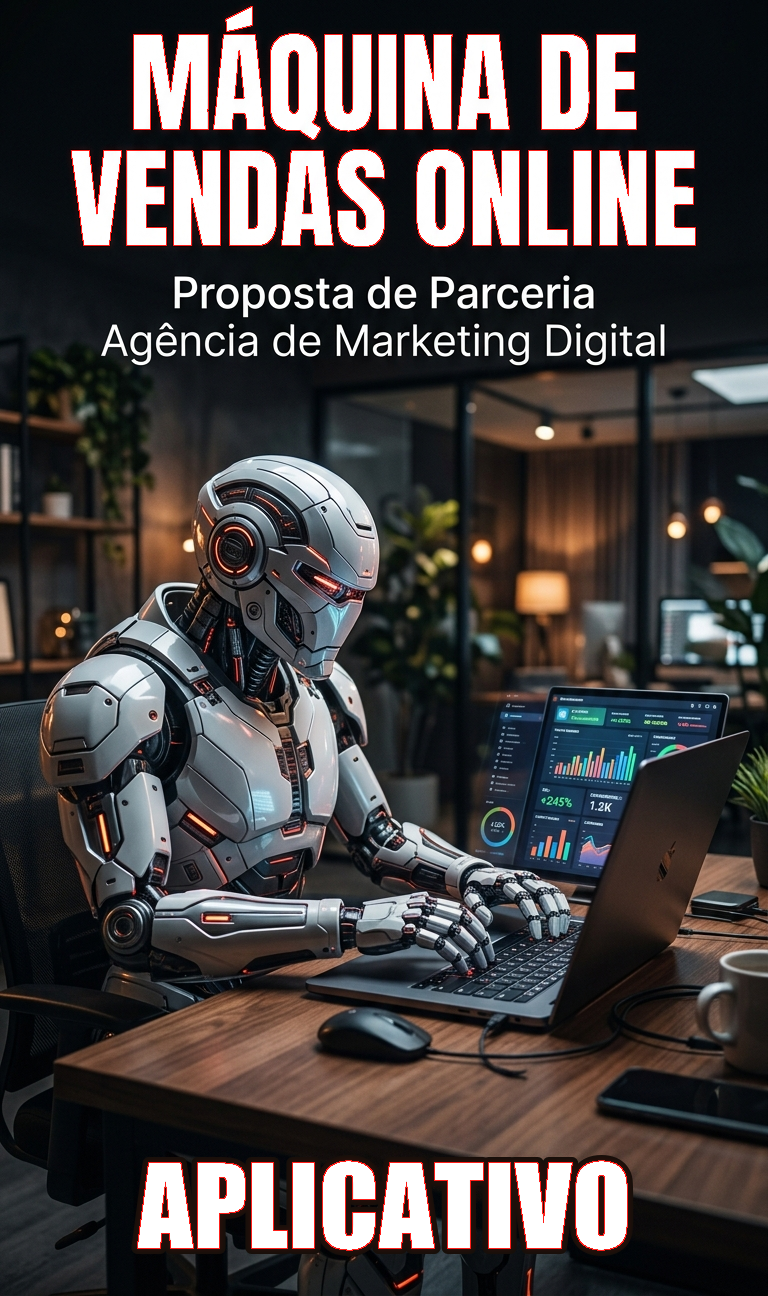
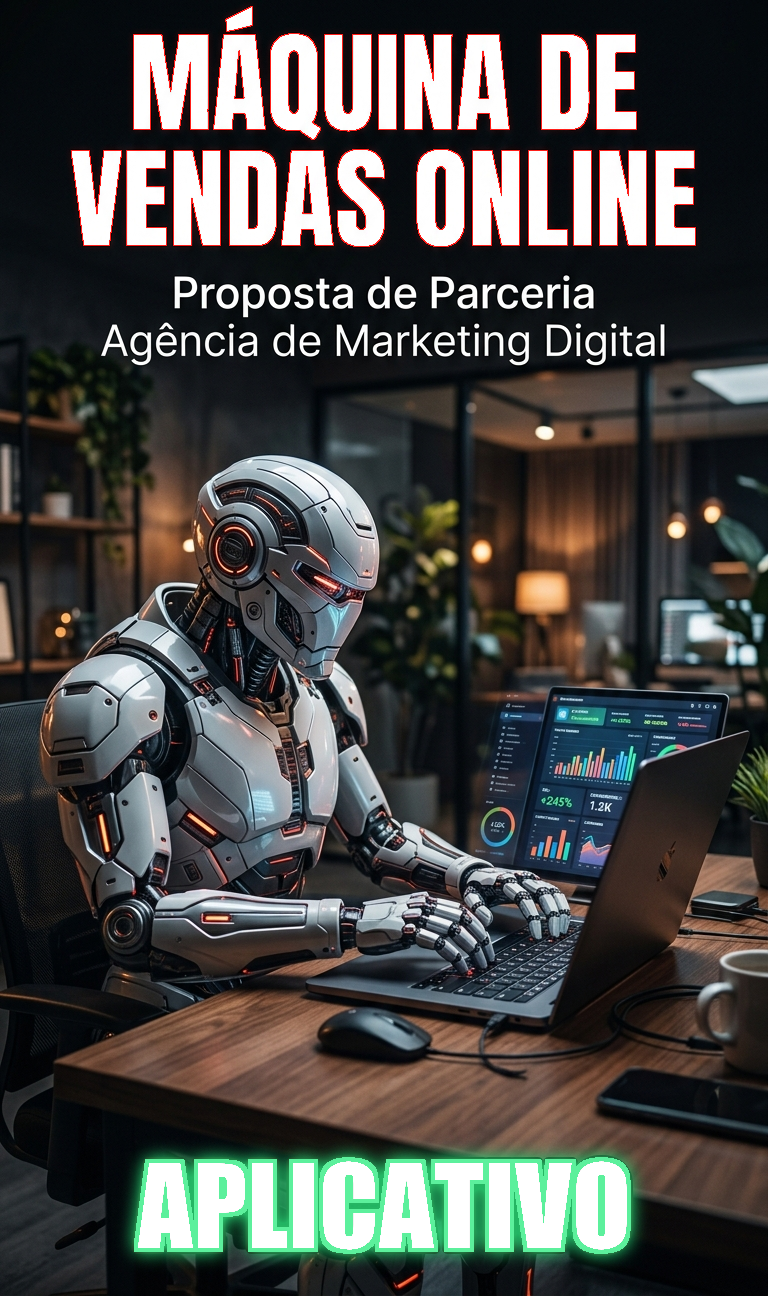
Topo: contorno verde, APLICATIVO verde acendendo e player do vídeo (som + parar)

Changed region(s): [[0.1562, 0.8642, 0.8438, 0.9877]]

diff --git a/app/hostnet-server/public/index.html b/app/hostnet-server/public/index.html
@@ -32,8 +32,8 @@
   }
   * { box-sizing: border-box; }
   @keyframes appFrameGlow {
-    0%, 100% { border-color: #ff2d1f; box-shadow: inset 0 0 10px rgba(255, 45, 31, 0.2); }
-    50% { border-color: #ff7a63; box-shadow: inset 0 0 20px rgba(255, 45, 31, 0.4); }
+    0%, 100% { border-color: #27d373; box-shadow: inset 0 0 10px rgba(39, 211, 115, 0.2); }
+    50% { border-color: #7dffb4; box-shadow: inset 0 0 20px rgba(39, 211, 115, 0.4); }
   }
   body {
     font-family: system-ui, -apple-system, sans-serif;
@@ -43,8 +43,8 @@
     padding: 0 16px calc(130px + env(safe-area-inset-bottom, 0px));
     background: var(--bg);
     color: var(--text);
-    border-left: 2px solid #ff2d1f;
-    border-right: 2px solid #ff2d1f;
+    border-left: 2px solid #27d373;
+    border-right: 2px solid #27d373;
     animation: appFrameGlow 2.4s ease-in-out infinite;
   }
   .hero {
@@ -2502,6 +2502,13 @@
   .hero img.brand-logo-on { width: auto; max-width: 70%; max-height: 170px; margin: 0 auto; padding: 22px 0 10px; object-fit: contain; border-bottom: none; }
   .hero .brand-name { margin: 0; padding: 10px 16px 16px; text-align: center; font-size: 1.5rem; font-weight: 900; color: var(--text); }
   .hero:has(img.brand-logo-on) { background: var(--panel); border-bottom: 2px solid var(--cyan); }
+  .hero-video { width: 100%; height: auto; display: block; border-bottom: 2px solid var(--cyan); background: #000; }
+  .hero-video[hidden], .hero-ctrls[hidden], .hero img[hidden] { display: none; }
+  .hero-ctrls { position: absolute; left: 10px; top: 58%; display: flex; flex-direction: column; gap: 8px; z-index: 2; }
+  .hero-ctrl { position: relative; width: 42px; height: 42px; margin: 0; padding: 0; border-radius: 50%; border: 2px solid #27d373; background: rgba(6, 20, 12, .72); color: #fff; font-size: 1.3rem; line-height: 1; display: grid; place-items: center; cursor: pointer; box-shadow: 0 0 10px rgba(39, 211, 115, .6); }
+  .hero-ctrl .hero-x { position: absolute; right: -2px; top: -2px; width: 18px; height: 18px; border-radius: 50%; background: #ff3b30; color: #fff; font-size: .7rem; font-weight: 900; display: grid; place-items: center; }
+  .hero-ctrl.on .hero-x { display: none; }
+  .hero-ctrl.on { background: rgba(39, 211, 115, .35); }
   .brand-box { margin: 10px 0 14px; }
   .brand-box.hide { display: none; }
   .brand-toggle { width: 100%; padding: 13px 16px; border-radius: 14px; border: 2px solid #ffc400; background: linear-gradient(135deg, rgba(255, 196, 0, 0.14), rgba(51, 214, 203, 0.08)); color: var(--text); font-weight: 800; font-size: 1.05rem; cursor: pointer; display: flex; justify-content: space-between; align-items: center; }
@@ -2549,8 +2556,58 @@
 <body>
   <div class="hero">
     <img src="/img/hero-robo-crop.png" alt="Máquina de Vendas Online" data-brand-logo />
+    <!-- Vídeo do topo (Franklin, 2026-11-20): roda sozinho e mudo no lugar
+         da imagem; 🎤 liga/desliga o áudio; ⏸ para e volta à 1ª cena parada.
+         Só aparece quando /img/hero-robo.mp4 existe e sem logo de cliente. -->
+    <video id="hero-video" class="hero-video" poster="/img/hero-robo-crop.png" muted loop playsinline preload="auto" hidden></video>
+    <div id="hero-ctrls" class="hero-ctrls" hidden>
+      <button type="button" id="hero-som" class="hero-ctrl" aria-label="Ouvir o áudio" title="Ouvir o áudio">🎤<span class="hero-x">✕</span></button>
+      <button type="button" id="hero-play" class="hero-ctrl" aria-label="Parar o vídeo" title="Parar o vídeo">⏸</button>
+    </div>
     <p class="brand-name" data-brand-name hidden></p>
   </div>
+  <script>
+  (function () {
+    var v = document.getElementById('hero-video');
+    var img = document.querySelector('.hero img[data-brand-logo]');
+    var ctrls = document.getElementById('hero-ctrls');
+    var som = document.getElementById('hero-som');
+    var play = document.getElementById('hero-play');
+    function temLogo() { return img.classList.contains('brand-logo-on'); }
+    function mostrar() {
+      if (temLogo()) { v.hidden = true; ctrls.hidden = true; img.hidden = false; v.pause(); return; }
+      v.hidden = false; ctrls.hidden = false; img.hidden = true;
+    }
+    v.addEventListener('loadeddata', function () {
+      mostrar();
+      v.play().catch(function () { atualizar(); });
+    }, { once: true });
+    v.addEventListener('error', function () { v.hidden = true; ctrls.hidden = true; img.hidden = false; });
+    new MutationObserver(function () { if (!v.hidden || !ctrls.hidden) mostrar(); })
+      .observe(img, { attributes: true, attributeFilter: ['class'] });
+    function atualizar() {
+      var tocando = !v.paused;
+      play.textContent = tocando ? '⏸' : '▶';
+      play.setAttribute('aria-label', tocando ? 'Parar o vídeo' : 'Tocar o vídeo');
+      play.title = play.getAttribute('aria-label');
+      som.classList.toggle('on', !v.muted);
+      som.setAttribute('aria-label', v.muted ? 'Ouvir o áudio' : 'Tirar o áudio');
+      som.title = som.getAttribute('aria-label');
+    }
+    play.addEventListener('click', function () {
+      if (v.paused) { v.play().catch(function () {}); }
+      else { v.pause(); v.currentTime = 0; }
+    });
+    som.addEventListener('click', function () {
+      v.muted = !v.muted;
+      if (!v.muted && v.paused) { v.currentTime = 0; v.play().catch(function () {}); }
+      atualizar();
+    });
+    v.addEventListener('play', atualizar);
+    v.addEventListener('pause', atualizar);
+    v.src = '/img/hero-robo.mp4';
+  })();
+  </script>
   <!-- QR code pra compartilhar o app (Franklin, 2026-10-15): entre a
        palavra APLICATIVO da imagem do topo e a frase de baixo, visível pra
        todo mundo, logado ou não. -->
